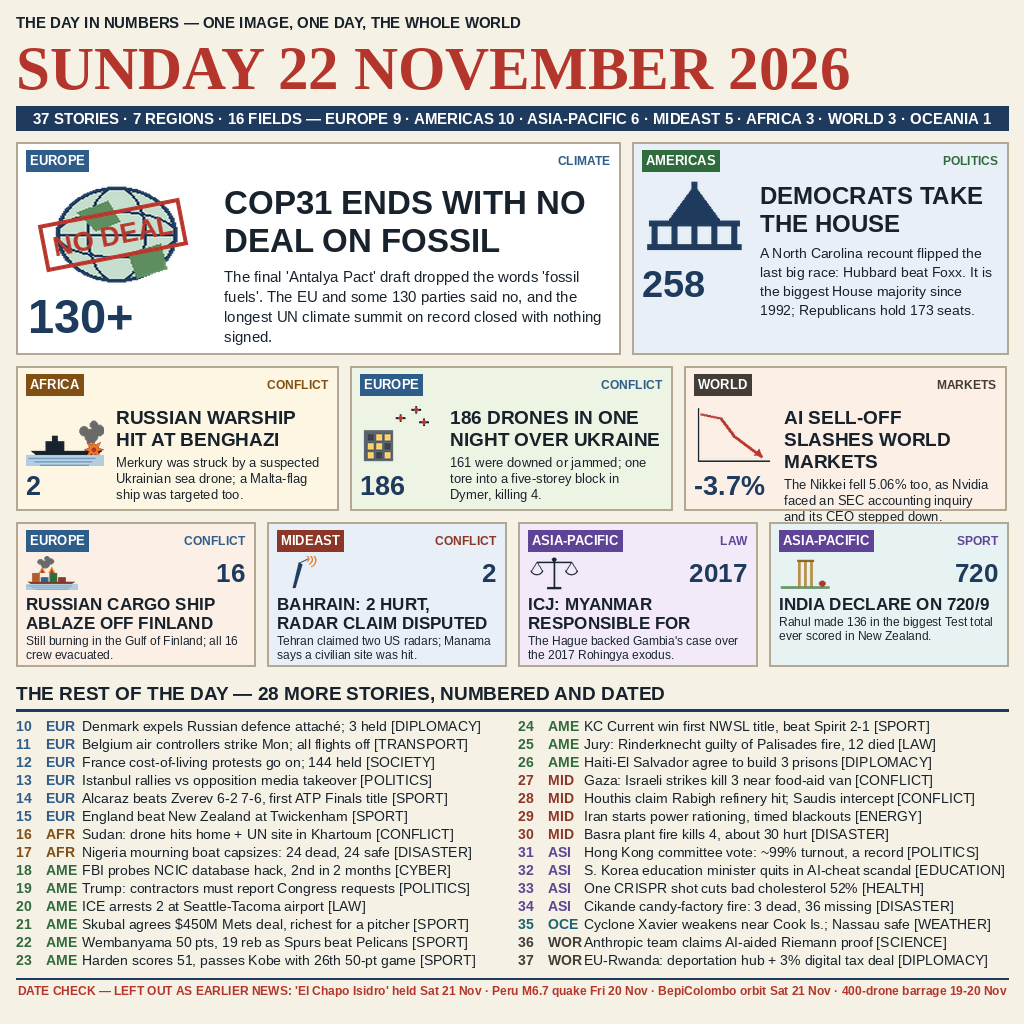
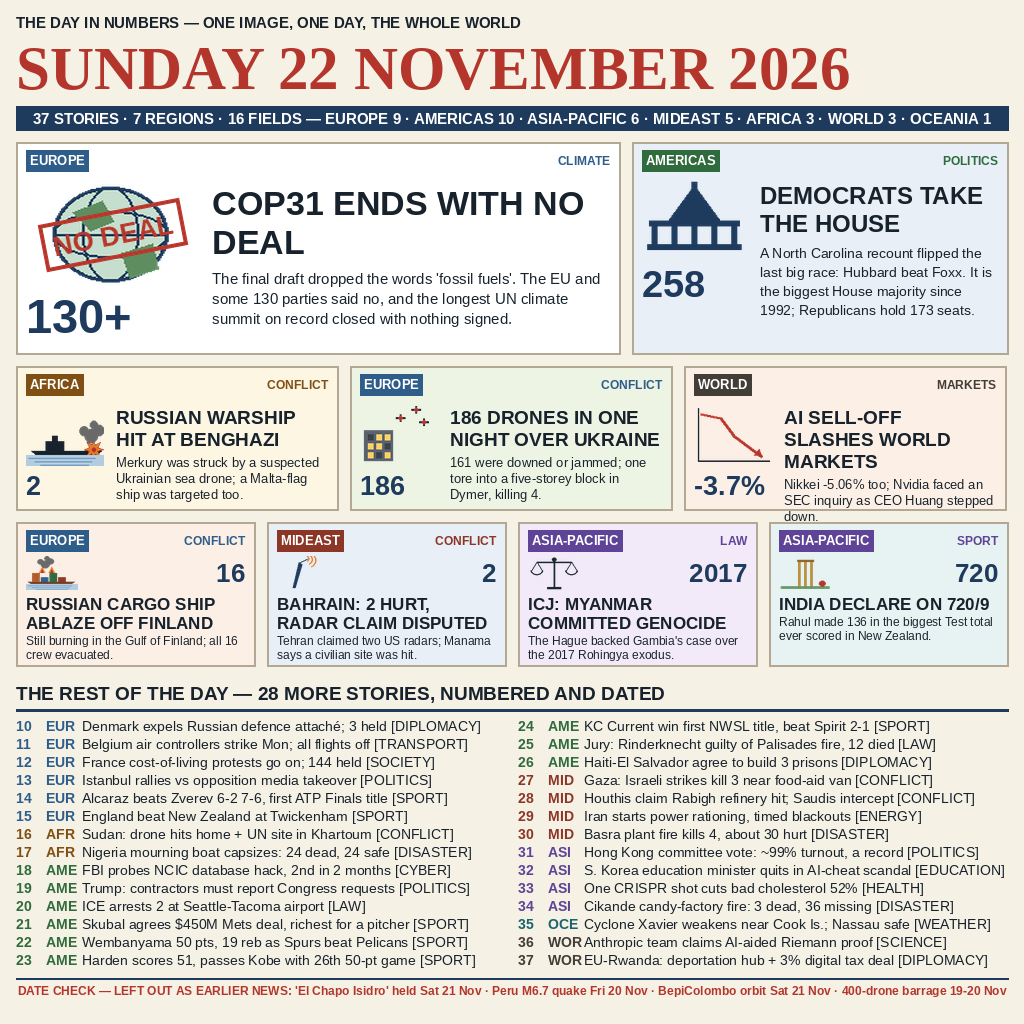
Fix silent text truncation found by independent crosscheck; overflow now fails the render

Changed region(s): [[0.0312, 0.1875, 0.5938, 0.3438], [0.75, 0.4688, 0.9688, 0.5312], [0.5, 0.5938, 0.7188, 0.625]]

diff --git a/render.py b/render.py
@@ -68,9 +68,13 @@ def wrap(draw, text, fnt, max_w):
     return lines
 
 
+OVERFLOWS = []
+
+
 def text_block(draw, xy, text, fnt, fill, max_w, line_h, max_lines=None):
     lines = wrap(draw, text, fnt, max_w)
-    if max_lines:
+    if max_lines and len(lines) > max_lines:
+        OVERFLOWS.append((text, len(lines), max_lines))
         lines = lines[:max_lines]
     x, y = xy
     for ln in lines:
@@ -83,8 +87,8 @@ def text_block(draw, xy, text, fnt, fill, max_w, line_h, max_lines=None):
 # key, region, field, baked number, headline, one-line fact, archetype
 FEATURED = [
     ("cop31", "EUROPE", "CLIMATE", "130+",
-     "COP31 ENDS WITH NO DEAL ON FOSSIL FUELS",
-     "The final 'Antalya Pact' draft dropped the words 'fossil fuels'. "
+     "COP31 ENDS WITH NO DEAL",
+     "The final draft dropped the words 'fossil fuels'. "
      "The EU and some 130 parties said no, and the longest UN climate "
      "summit on record closed with nothing signed.",
      "globe"),
@@ -106,8 +110,8 @@ FEATURED = [
      "drones"),
     ("markets", "WORLD", "MARKETS", "-3.7%",
      "AI SELL-OFF SLASHES WORLD MARKETS",
-     "The Nikkei fell 5.06% too, as Nvidia faced an SEC accounting "
-     "inquiry and its CEO stepped down.",
+     "Nikkei -5.06% too; Nvidia faced an SEC inquiry as CEO "
+     "Huang stepped down.",
      "chart"),
     ("sparta", "EUROPE", "CONFLICT", "16",
      "RUSSIAN CARGO SHIP ABLAZE OFF FINLAND",
@@ -118,7 +122,7 @@ FEATURED = [
      "Tehran claimed two US radars; Manama says a civilian site was hit.",
      "radar"),
     ("icj", "ASIA-PACIFIC", "LAW", "2017",
-     "ICJ: MYANMAR RESPONSIBLE FOR GENOCIDE",
+     "ICJ: MYANMAR COMMITTED GENOCIDE",
      "The Hague backed Gambia's case over the 2017 Rohingya exodus.",
      "scales"),
     ("india", "ASIA-PACIFIC", "SPORT", "720",
@@ -341,11 +345,11 @@ def draw_card(img, box, item, tint, big=False):
     card_header(d, x, y, w, region, field)
     pic_fn = PICS[arche]
     if big and w > 500:
-        draw_pic(img, pic_fn, x + 12, y + 40, 176, 104)
-        d.text((x + 12, y + 148), number, font=font(SANS_BOLD, 47), fill=NAVY)
-        tx = x + 208
-        yy = text_block(d, (tx, y + 42), headline, font(SANS_BOLD, 33), INK, w - 220, 38, 2)
-        text_block(d, (tx, yy + 8), fact, font(SANS, 15), INK, w - 220, 20, 4)
+        draw_pic(img, pic_fn, x + 10, y + 40, 168, 104)
+        d.text((x + 10, y + 148), number, font=font(SANS_BOLD, 47), fill=NAVY)
+        tx = x + 196
+        yy = text_block(d, (tx, y + 42), headline, font(SANS_BOLD, 34), INK, w - 208, 39, 2)
+        text_block(d, (tx, yy + 8), fact, font(SANS, 15), INK, w - 208, 20, 4)
     elif big:  # second lead card, narrower
         draw_pic(img, pic_fn, x + 10, y + 38, 104, 76)
         d.text((x + 10, y + 120), number, font=font(SANS_BOLD, 38), fill=NAVY)
@@ -436,6 +440,7 @@ def build():
     d.line([MARGIN, fy - 6, MARGIN + CONTENT_W, fy - 6], fill=NAVY, width=2)
     fw = d.textlength(DATE_CHECK_LINE, font=font(SANS_BOLD, 12))
     d.text((MARGIN + (CONTENT_W - fw) / 2, fy), DATE_CHECK_LINE, font=font(SANS_BOLD, 12), fill=RED)
+    assert not OVERFLOWS, f"text overflow would be silently truncated: {OVERFLOWS}"
     return img
 
 
